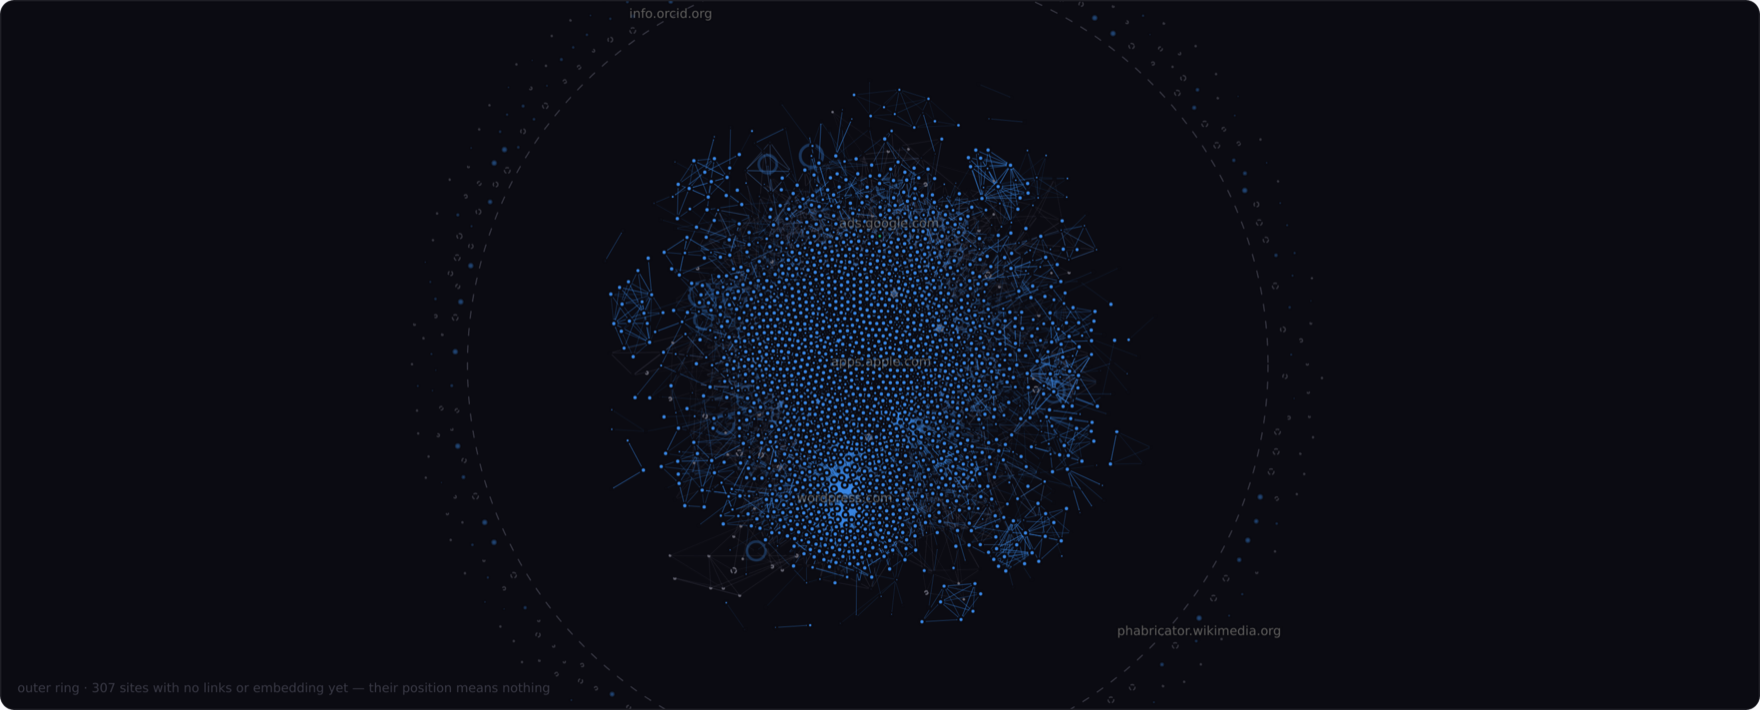
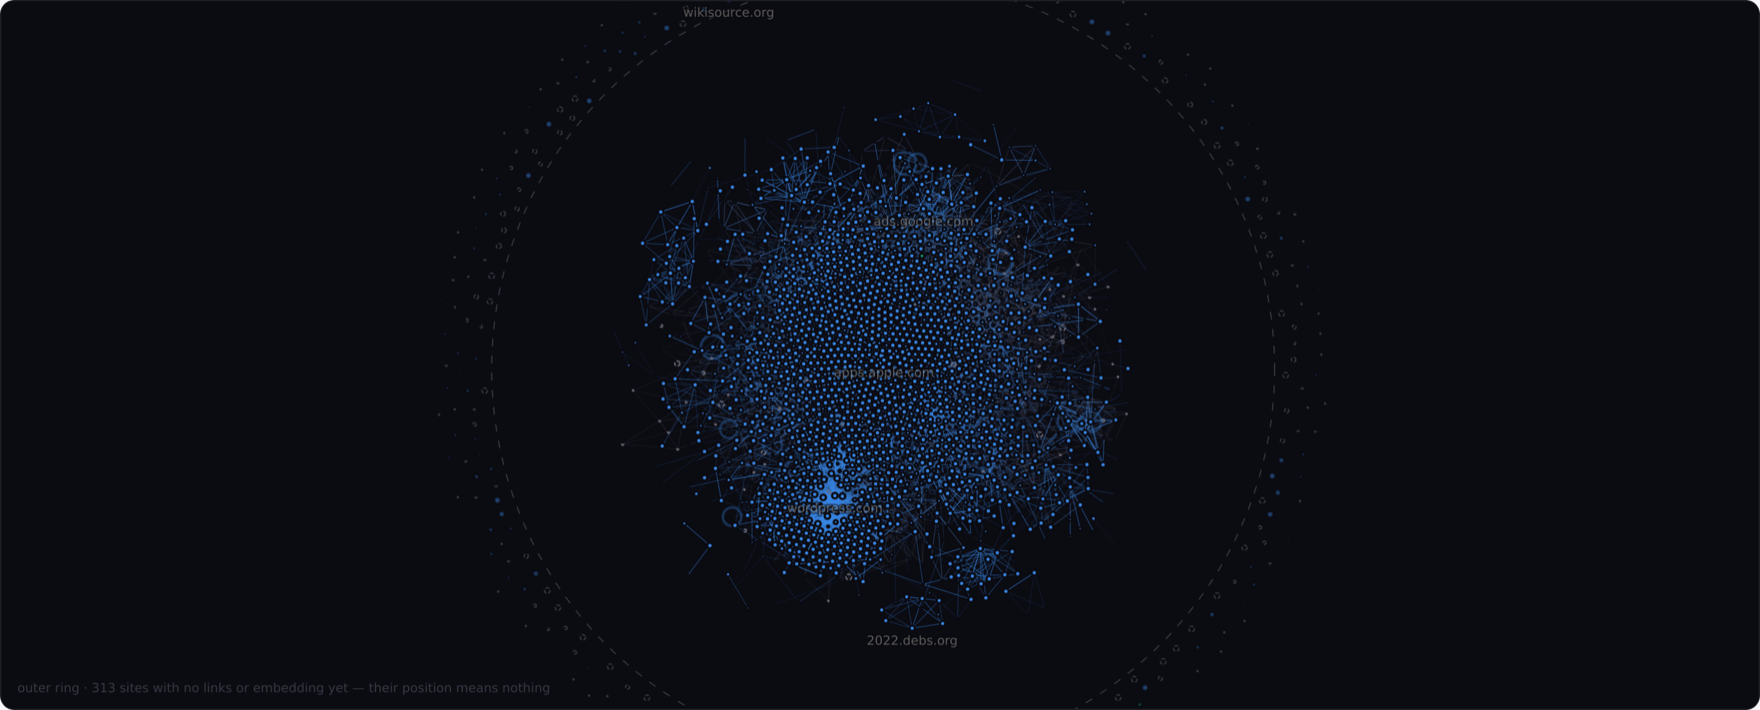
docs: refresh the Open Web Vectors image, and stop cropping by arithmetic
The headline on that page changed twice today, and the alt text quoted the old
wording verbatim while the counts it recited were roughly a third of the live
figures — 1,656 sites against 2,588, 7.0M chunks against 12.3M. Both now match
the image, which was re-captured from the live page.

## The crop was a hidden function of the copy

`sips -c 1240 2880 --cropOffset 300 0` looked like a framing constant. It was
really "how tall is the headline", and nothing said so. A rewrite took the
headline from one line to four, and the crop silently cut the live stat bar out
of frame — an image of the initiative containing none of its numbers, produced
by a script that reported success and exited 0. The second rewrite took it to
two lines, which would have needed the number retuned again.

Captured by `selector: .owv-hero` now. That element is exactly the region the
image should show — eyebrow, headline, lead, stat bar, CTAs — so the bounds
follow the content and the copy can change freely without arithmetic. The
same mechanism the universe shot has always used.

Verified by looking at the PNG, not by the exit code: 1760x920, stat bar and
both CTAs in frame, no dead space.

Changed region(s): [[0.3438, 0.1859, 0.6562, 0.9296], [0.625, 0.8676, 0.7188, 0.8986], [0.3438, 0.0, 0.4375, 0.031]]

diff --git a/README.md b/README.md
@@ -288,7 +288,7 @@ We do appreciate contributions back — including a bug report that amounts to
 is the test this repo is built around. And the wider project it feeds is the
 [**Open Web Vectors Initiative**](https://divinci.ai/open-web-vectors/).
 
-[![The Open Web Vectors Initiative — the web is only legible to AI if someone already swallowed it. A public, per-site retrieval index: every site gets its own vector database, its own embeddings, and a chat endpoint grounded in its own words with citations back to the page. Nothing is trained on. Live counts: 1,656 sites indexed, 443,738 pages crawled, 7,022,048 chunks embedded, 3 GB of extracted text, 1,597 live chat endpoints, 224 pages for the median site.](docs/open-web-vectors/open-web-vectors.png)](https://divinci.ai/open-web-vectors/)
+[![The Open Web Vectors Initiative — the open web has no retrieval layer of its own. A public, per-site retrieval index: every site gets its own vector database, its own embeddings, and a chat endpoint grounded in its own words with citations back to the page. Nothing is trained on. Live counts: 2,588 sites indexed, 651,743 pages crawled, 12,332,710 chunks embedded, 4.5 GB of extracted text, 2,529 live chat endpoints, 249 pages for the median site.](docs/open-web-vectors/open-web-vectors.png)](https://divinci.ai/open-web-vectors/)
 
 A public, per-site retrieval index where every site gets its own vectors, its
 own embeddings and a citation-backed chat endpoint, nothing is trained on, and
